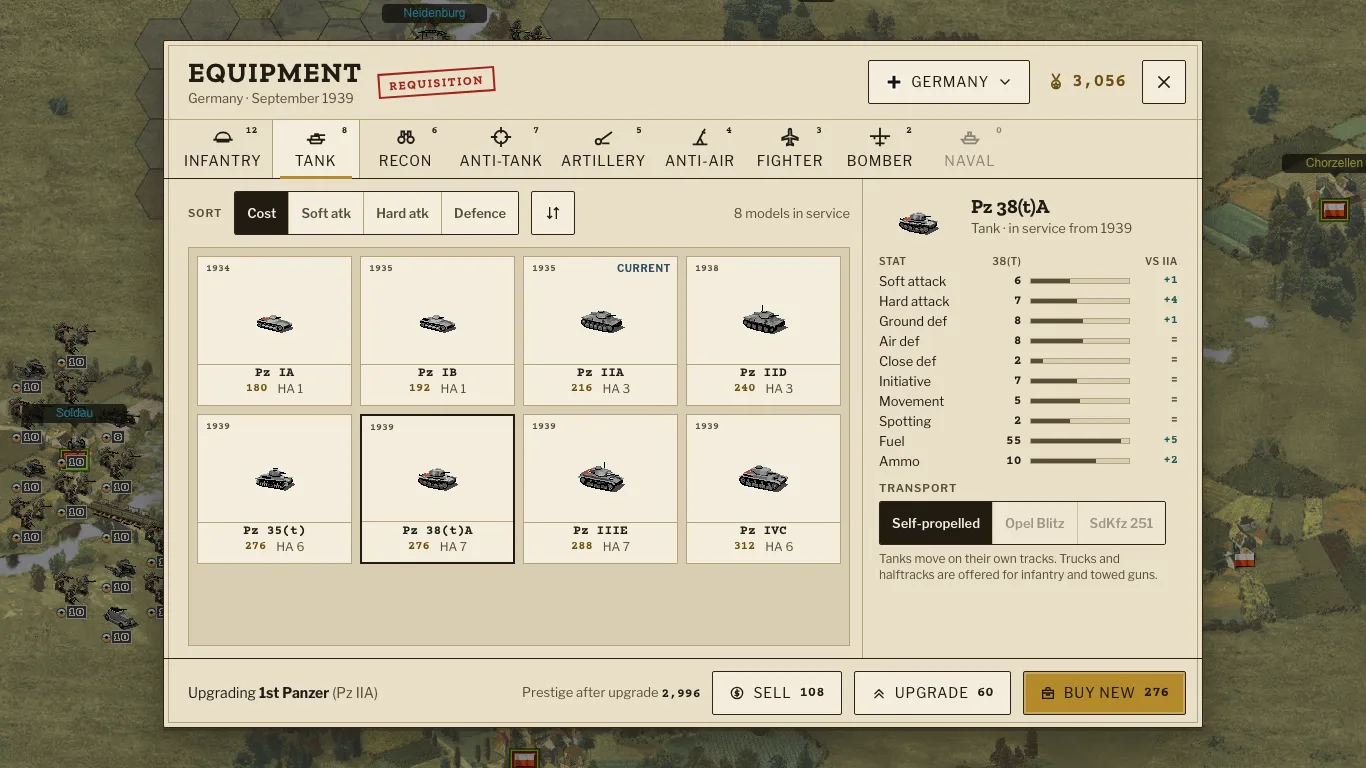
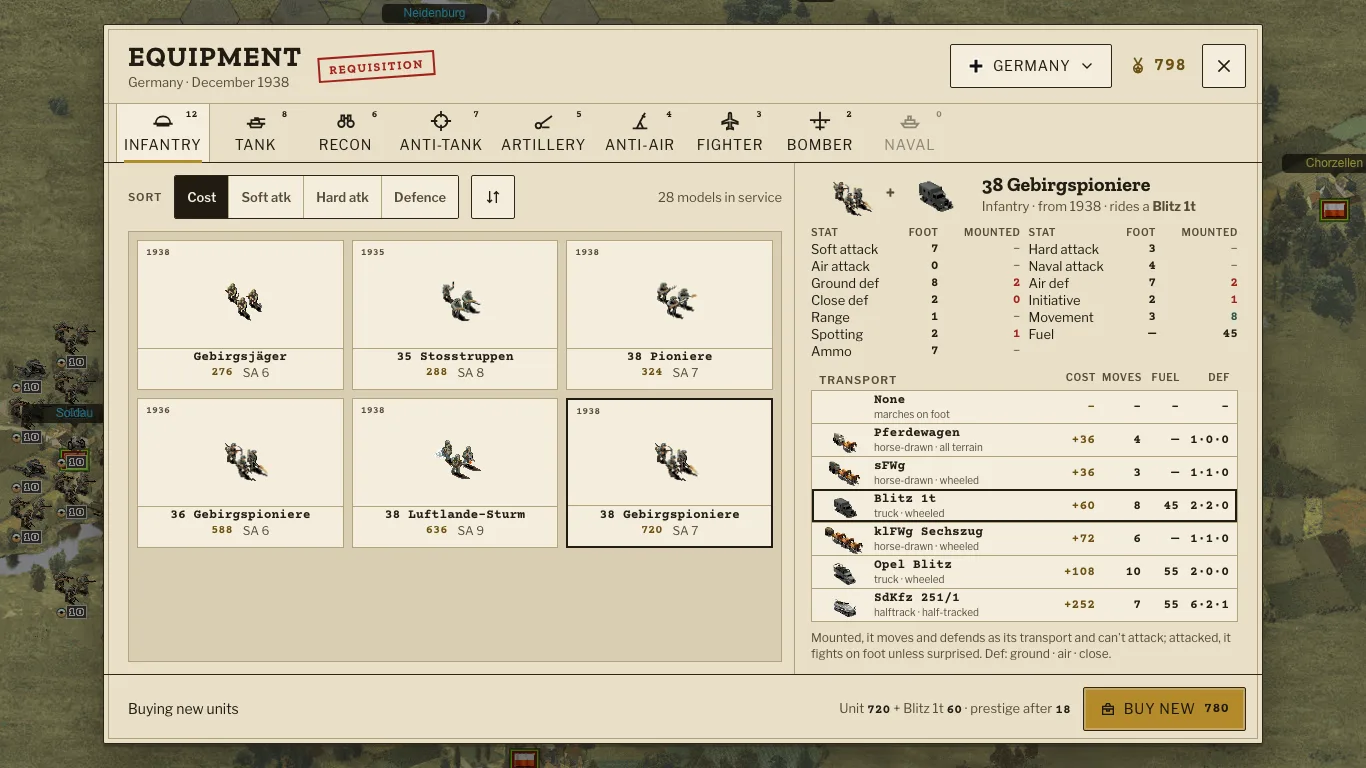
Show what each transport gives in the Equipment card
The equipment window offers a transport as a row of names: nothing says what it is, what it costs or what it changes, and the row scrolls sideways. The card now lists every transport with its sprite, kind, cost, moves, fuel and defence, shows the model's stats on foot and mounted side by side, puts the transport's sprite next to the unit's, says the mounting rule once and splits the price in the action bar. Design only: the card's status points at #513 for the build. No game code changed.

Changed region(s): [[0.0615, 0.0312, 0.9531, 1.0], [0.3997, 0.125, 0.4305, 0.1562]]

diff --git a/docs/ui/components/Equipment/preview.html b/docs/ui/components/Equipment/preview.html
@@ -1,26 +1,20 @@
-<!-- @dsCard group="Screens · In game" height=768 width=1366 subtitle="Equipment window (#equipment) at 1366×768: class tabs, sorted grid, comparison, transport, prestige" status="Ready" -->
+<!-- @dsCard group="Screens · In game" height=768 width=1366 subtitle="Equipment window (#equipment) at 1366×768: class tabs, sorted grid, the model on foot and mounted, transports with what each gives, prestige" status="Transport list not built (#513)" -->
 <link rel="stylesheet" href="https://fonts.googleapis.com/css2?family=Zilla+Slab:wght@500;700&family=Libre+Franklin:wght@400;600;700&family=Courier+Prime:wght@400;700&display=swap">
 
 <div class="pm pm-stage s1366">
-  
-  <div class="pm-map" style="background-image:url(assets/map-ciechanow.jpg);transform:translate(0px,0px) scale(1)" aria-hidden="true">
-    <svg class="hexes" width="1632" height="1040"></svg>
-    
-  </div>
+  <div class="pm-map" style="background-image:url(assets/map-ciechanow.jpg)" aria-hidden="true"></div>
   <div class="pm-scrim"></div>
-  
-  <section id="equipment" class="pm-window pm-eq" role="dialog" aria-label="Equipment" style="left:163px;top:40px;width:1040px;height:688px">
-    
+  <section id="equipment" class="pm-window pm-eq" role="dialog" aria-label="Equipment" style="left:103px;top:24px;width:1160px;height:720px">
     <div class="hd">
-      <div><h1 class="pm-display">Equipment</h1><div class="sub">Germany · September 1939</div></div>
+      <div><h1 class="pm-display">Equipment</h1><div class="sub">Germany · December 1938</div></div>
       <span class="pm-stamp">Requisition</span>
       <span class="grow"></span>
       <button id="eqSelCountryButton" class="pm-btn"><svg class="mark sm" aria-hidden="true"><use href="#pm-flag-de"/></svg>Germany<svg class="i sm" aria-hidden="true"><use href="#pm-chevron-down"/></svg></button>
-      <span id="currentPrestige" class="pm-prestige pm-data" style="font-size:18px"><svg class="i " aria-hidden="true"><use href="#pm-prestige"/></svg>3,056</span>
+      <span id="currentPrestige" class="pm-prestige pm-data" style="font-size:var(--type-data-lg-size)"><svg class="i " aria-hidden="true"><use href="#pm-prestige"/></svg>798</span>
       <button id="eqCloseBut" class="pm-btn icon" aria-label="Close"><svg class="i " aria-hidden="true"><use href="#pm-close"/></svg></button>
     </div>
     <nav id="eqSelClass" class="pm-tabs" role="tablist" style="">
-      <button class="pm-tab" role="tab" aria-selected="false"><svg class="i " aria-hidden="true"><use href="#pm-infantry"/></svg>Infantry<span class="n">12</span></button><button class="pm-tab is-on" role="tab" aria-selected="true"><svg class="i " aria-hidden="true"><use href="#pm-tank"/></svg>Tank<span class="n">8</span></button><button class="pm-tab" role="tab" aria-selected="false"><svg class="i " aria-hidden="true"><use href="#pm-recon"/></svg>Recon<span class="n">6</span></button><button class="pm-tab" role="tab" aria-selected="false"><svg class="i " aria-hidden="true"><use href="#pm-antitank"/></svg>Anti-tank<span class="n">7</span></button><button class="pm-tab" role="tab" aria-selected="false"><svg class="i " aria-hidden="true"><use href="#pm-artillery"/></svg>Artillery<span class="n">5</span></button><button class="pm-tab" role="tab" aria-selected="false"><svg class="i " aria-hidden="true"><use href="#pm-antiair"/></svg>Anti-air<span class="n">4</span></button><button class="pm-tab" role="tab" aria-selected="false"><svg class="i " aria-hidden="true"><use href="#pm-fighter"/></svg>Fighter<span class="n">3</span></button><button class="pm-tab" role="tab" aria-selected="false"><svg class="i " aria-hidden="true"><use href="#pm-bomber"/></svg>Bomber<span class="n">2</span></button><button class="pm-tab" role="tab" aria-selected="false" disabled><svg class="i " aria-hidden="true"><use href="#pm-naval"/></svg>Naval<span class="n">0</span></button>
+      <button class="pm-tab is-on" role="tab" aria-selected="true"><svg class="i " aria-hidden="true"><use href="#pm-infantry"/></svg>Infantry<span class="n">12</span></button><button class="pm-tab" role="tab" aria-selected="false"><svg class="i " aria-hidden="true"><use href="#pm-tank"/></svg>Tank<span class="n">8</span></button><button class="pm-tab" role="tab" aria-selected="false"><svg class="i " aria-hidden="true"><use href="#pm-recon"/></svg>Recon<span class="n">6</span></button><button class="pm-tab" role="tab" aria-selected="false"><svg class="i " aria-hidden="true"><use href="#pm-antitank"/></svg>Anti-tank<span class="n">7</span></button><button class="pm-tab" role="tab" aria-selected="false"><svg class="i " aria-hidden="true"><use href="#pm-artillery"/></svg>Artillery<span class="n">5</span></button><button class="pm-tab" role="tab" aria-selected="false"><svg class="i " aria-hidden="true"><use href="#pm-antiair"/></svg>Anti-air<span class="n">4</span></button><button class="pm-tab" role="tab" aria-selected="false"><svg class="i " aria-hidden="true"><use href="#pm-fighter"/></svg>Fighter<span class="n">3</span></button><button class="pm-tab" role="tab" aria-selected="false"><svg class="i " aria-hidden="true"><use href="#pm-bomber"/></svg>Bomber<span class="n">2</span></button><button class="pm-tab" role="tab" aria-selected="false" disabled><svg class="i " aria-hidden="true"><use href="#pm-naval"/></svg>Naval<span class="n">0</span></button>
     </nav>
     <div class="body">
       <div class="list">
@@ -29,33 +23,33 @@
           <div class="pm-seg" role="group" aria-label="Sort by"><button class="is-on">Cost</button><button>Soft atk</button><button>Hard atk</button><button>Defence</button></div>
           <button id="eqSortOrderBut" class="pm-btn icon" aria-label="Reverse order"><svg class="i sm" aria-hidden="true"><use href="#pm-sort"/></svg></button>
           <span class="grow"></span>
-          <span class="pm-muted" style="font-size:13px">8 models in service</span>
+          <span class="pm-muted" style="font-size:var(--type-small-size)">28 models in service</span>
         </div>
-        <div id="eqUnitList" class="pm-grid" style="grid-template-columns:repeat(4,1fr);grid-auto-rows:150px" role="listbox">
-          <div class="pm-card" role="option" aria-selected="false"><span class="yr">1934</span><span class="spr" style="background-image:url(assets/units-sheet.png);background-position:-0px 0"></span><span class="nm">Pz IA</span><span class="meta"><span class="c">180</span><span>HA 1</span></span></div><div class="pm-card" role="option" aria-selected="false"><span class="yr">1935</span><span class="spr" style="background-image:url(assets/units-sheet.png);background-position:-80px 0"></span><span class="nm">Pz IB</span><span class="meta"><span class="c">192</span><span>HA 1</span></span></div><div class="pm-card" role="option" aria-selected="false"><span class="yr">1935</span><span class="cur">Current</span><span class="spr" style="background-image:url(assets/units-sheet.png);background-position:-160px 0"></span><span class="nm">Pz IIA</span><span class="meta"><span class="c">216</span><span>HA 3</span></span></div><div class="pm-card" role="option" aria-selected="false"><span class="yr">1938</span><span class="spr" style="background-image:url(assets/units-sheet.png);background-position:-240px 0"></span><span class="nm">Pz IID</span><span class="meta"><span class="c">240</span><span>HA 3</span></span></div><div class="pm-card" role="option" aria-selected="false"><span class="yr">1939</span><span class="spr" style="background-image:url(assets/units-sheet.png);background-position:-320px 0"></span><span class="nm">Pz 35(t)</span><span class="meta"><span class="c">276</span><span>HA 6</span></span></div><div class="pm-card is-on" role="option" aria-selected="true"><span class="yr">1939</span><span class="spr" style="background-image:url(assets/units-sheet.png);background-position:-400px 0"></span><span class="nm">Pz 38(t)A</span><span class="meta"><span class="c">276</span><span>HA 7</span></span></div><div class="pm-card" role="option" aria-selected="false"><span class="yr">1939</span><span class="spr" style="background-image:url(assets/units-sheet.png);background-position:-480px 0"></span><span class="nm">Pz IIIE</span><span class="meta"><span class="c">288</span><span>HA 7</span></span></div><div class="pm-card" role="option" aria-selected="false"><span class="yr">1939</span><span class="spr" style="background-image:url(assets/units-sheet.png);background-position:-560px 0"></span><span class="nm">Pz IVC</span><span class="meta"><span class="c">312</span><span>HA 6</span></span></div>
-        </div></div>
-      
-      <aside class="detail" style="">
-        <div class="top"><span class="spr" style="background-image:url(assets/units-sheet.png);background-position:-400px 0"></span><div><h2 class="pm-title">Pz 38(t)A</h2><div class="pm-muted" style="font-size:13px">Tank · in service from 1939</div></div></div>
-        <div class="pm-cmp">
-          <span class="hdr">Stat</span><span class="hdr" style="text-align:right">38(t)</span><span class="hdr"></span><span class="hdr" style="text-align:right">vs IIA</span>
-          <span>Soft attack</span><span class="n">6</span><span class="bar"><b style="width:40%"></b></span><span class="d up">+1</span><span>Hard attack</span><span class="n">7</span><span class="bar"><b style="width:47%"></b></span><span class="d up">+4</span><span>Ground def</span><span class="n">8</span><span class="bar"><b style="width:53%"></b></span><span class="d up">+1</span><span>Air def</span><span class="n">8</span><span class="bar"><b style="width:53%"></b></span><span class="d ">=</span><span>Close def</span><span class="n">2</span><span class="bar"><b style="width:13%"></b></span><span class="d ">=</span><span>Initiative</span><span class="n">7</span><span class="bar"><b style="width:47%"></b></span><span class="d ">=</span><span>Movement</span><span class="n">5</span><span class="bar"><b style="width:50%"></b></span><span class="d ">=</span><span>Spotting</span><span class="n">2</span><span class="bar"><b style="width:40%"></b></span><span class="d ">=</span><span>Fuel</span><span class="n">55</span><span class="bar"><b style="width:92%"></b></span><span class="d up">+5</span><span>Ammo</span><span class="n">10</span><span class="bar"><b style="width:67%"></b></span><span class="d up">+2</span>
+        <div id="eqUnitList" class="pm-grid" style="grid-template-columns:repeat(3,1fr);grid-auto-rows:150px" role="listbox"><div class="pm-card" role="option" aria-selected="false"><span class="yr">1938</span><span class="spr fr" style="background-image:url(../../game/resources/units/images/zd08.png)"></span><span class="nm">Gebirgsjäger</span><span class="meta"><span class="c">276</span><span>SA 6</span></span></div><div class="pm-card" role="option" aria-selected="false"><span class="yr">1935</span><span class="spr fr" style="background-image:url(../../game/resources/units/images/jkh29.png)"></span><span class="nm">35 Stosstruppen</span><span class="meta"><span class="c">288</span><span>SA 8</span></span></div><div class="pm-card" role="option" aria-selected="false"><span class="yr">1938</span><span class="spr fr" style="background-image:url(../../game/resources/units/images/jki22.png)"></span><span class="nm">38 Pioniere</span><span class="meta"><span class="c">324</span><span>SA 7</span></span></div><div class="pm-card" role="option" aria-selected="false"><span class="yr">1936</span><span class="spr fr" style="background-image:url(../../game/resources/units/images/zy05.png)"></span><span class="nm">36 Gebirgspioniere</span><span class="meta"><span class="c">588</span><span>SA 6</span></span></div><div class="pm-card" role="option" aria-selected="false"><span class="yr">1938</span><span class="spr fr" style="background-image:url(../../game/resources/units/images/er44.png)"></span><span class="nm">38 Luftlande-Sturm</span><span class="meta"><span class="c">636</span><span>SA 9</span></span></div><div class="pm-card is-on" role="option" aria-selected="true"><span class="yr">1938</span><span class="spr fr" style="background-image:url(../../game/resources/units/images/zy05.png)"></span><span class="nm">38 Gebirgspioniere</span><span class="meta"><span class="c">720</span><span>SA 7</span></span></div></div>
+      </div>
+      <aside class="detail">
+        <div class="top"><div class="duo"><span class="spr fr" style="background-image:url(../../game/resources/units/images/zy05.png)"></span><span class="plus" aria-hidden="true">+</span><span class="spr fr" style="background-image:url(../../game/resources/units/images/zyc26.png)"></span></div><div><h2 class="pm-title">38 Gebirgspioniere</h2><div class="pm-muted" style="font-size:var(--type-small-size)">Infantry · from 1938 · rides a <b>Blitz 1t</b></div></div></div>
+        <div class="pm-mount"><span class="hdr">Stat</span><span class="hdr">Foot</span><span class="hdr">Mounted</span><span class="hdr">Stat</span><span class="hdr">Foot</span><span class="hdr">Mounted</span><span>Soft attack</span><span class="n">7</span><span class="n m off">–</span><span>Hard attack</span><span class="n">3</span><span class="n m off">–</span><span>Air attack</span><span class="n">0</span><span class="n m off">–</span><span>Naval attack</span><span class="n">4</span><span class="n m off">–</span><span>Ground def</span><span class="n">8</span><span class="n m dn">2</span><span>Air def</span><span class="n">7</span><span class="n m dn">2</span><span>Close def</span><span class="n">2</span><span class="n m dn">0</span><span>Initiative</span><span class="n">2</span><span class="n m dn">1</span><span>Range</span><span class="n">1</span><span class="n m off">–</span><span>Movement</span><span class="n">3</span><span class="n m up">8</span><span>Spotting</span><span class="n">2</span><span class="n m dn">1</span><span>Fuel</span><span class="n">—</span><span class="n m">45</span><span>Ammo</span><span class="n">7</span><span class="n m off">–</span></div>
+        <div id="eqTransportList">
+          <div class="trh"><span class="pm-label">Transport</span><span>Cost</span><span>Moves</span><span>Fuel</span><span>Def</span></div>
+          <div class="trl" role="radiogroup" aria-label="Transport">
+          <div class="tr" role="radio" aria-checked="false"><span class="ts"></span><span class="nm"><b>None</b><span>marches on foot</span></span><span class="v c">–</span><span class="v">–</span><span class="v">–</span><span class="v">–</span></div>
+          <div class="tr" role="radio" aria-checked="false"><span class="ts fr" style="background-image:url(../../game/resources/units/images/pat16.png)"></span><span class="nm"><b>Pferdewagen</b><span>horse-drawn · all terrain</span></span><span class="v c">+36</span><span class="v">4</span><span class="v">—</span><span class="v">1·0·0</span></div>
+          <div class="tr" role="radio" aria-checked="false"><span class="ts fr" style="background-image:url(../../game/resources/units/images/zyb34.png)"></span><span class="nm"><b>sFWg</b><span>horse-drawn · wheeled</span></span><span class="v c">+36</span><span class="v">3</span><span class="v">—</span><span class="v">1·1·0</span></div>
+          <div class="tr is-on" role="radio" aria-checked="true"><span class="ts fr" style="background-image:url(../../game/resources/units/images/zyc26.png)"></span><span class="nm"><b>Blitz 1t</b><span>truck · wheeled</span></span><span class="v c">+60</span><span class="v">8</span><span class="v">45</span><span class="v">2·2·0</span></div>
+          <div class="tr" role="radio" aria-checked="false"><span class="ts fr" style="background-image:url(../../game/resources/units/images/drg75.png)"></span><span class="nm"><b>klFWg Sechszug</b><span>horse-drawn · wheeled</span></span><span class="v c">+72</span><span class="v">6</span><span class="v">—</span><span class="v">1·1·0</span></div>
+          <div class="tr" role="radio" aria-checked="false"><span class="ts fr" style="background-image:url(../../game/resources/units/images/jk469.png)"></span><span class="nm"><b>Opel Blitz</b><span>truck · wheeled</span></span><span class="v c">+108</span><span class="v">10</span><span class="v">55</span><span class="v">2·0·0</span></div>
+          <div class="tr" role="radio" aria-checked="false"><span class="ts fr" style="background-image:url(../../game/resources/units/images/pa171.png)"></span><span class="nm"><b>SdKfz 251/1</b><span>halftrack · half-tracked</span></span><span class="v c">+252</span><span class="v">7</span><span class="v">55</span><span class="v">6·2·1</span></div>
+          </div>
         </div>
-        <div id="eqTransportList" style="display:grid;gap:6px">
-          <span class="pm-label">Transport</span>
-          <div class="pm-seg"><button class="is-on">Self-propelled</button><button disabled>Opel Blitz</button><button disabled>SdKfz 251</button></div>
-          <span class="pm-muted" style="font-size:12px;line-height:16px">Tanks move on their own tracks. Trucks and halftracks are offered for infantry and towed guns.</span>
-        </div>
+        <p class="rule">Mounted, it moves and defends as its transport and can't attack; attacked, it fights on foot unless surprised. Def: ground · air · close.</p>
       </aside>
     </div>
-    
     <div id="eqActionsContainer" class="ft">
-      <span>Upgrading <b>1st Panzer</b> <span class="pm-muted">(Pz IIA)</span></span>
+      <span>Buying new units</span>
       <span class="grow"></span>
-      <span class="after">Prestige after upgrade <b>2,996</b></span>
-      <button id="eqSellBut" class="pm-btn"><svg class="i sm" aria-hidden="true"><use href="#pm-coin"/></svg>Sell <span class="cost">108</span></button>
-      <button id="eqUpgradeBut" class="pm-btn"><svg class="i sm" aria-hidden="true"><use href="#pm-upgrade"/></svg>Upgrade <span class="cost">60</span></button>
-      <button id="eqNewBut" class="pm-btn primary"><svg class="i sm" aria-hidden="true"><use href="#pm-depot"/></svg>Buy new <span class="cost">276</span></button>
+      <span class="after">Unit <b>720</b> + Blitz 1t <b>60</b> · prestige after <b>18</b></span>
+      <button id="eqNewBut" class="pm-btn primary"><svg class="i sm" aria-hidden="true"><use href="#pm-depot"/></svg>Buy new <span class="cost">780</span></button>
     </div>
   </section>
 </div>

diff --git a/docs/ui/components/bundle.css b/docs/ui/components/bundle.css
@@ -114,6 +114,34 @@
 .pm-cmp .bar b { display: block; height: 100%; background: var(--ink-muted); }
 .pm-cmp .d { font-family: var(--font-mono); font-weight: 700; font-size: var(--type-note-size); text-align: right; color: var(--ink-muted); }
 .pm-cmp .d.up { color: var(--ok); } .pm-cmp .d.dn { color: var(--critical); }
+/* the transport: the model on foot and mounted side by side, and every transport with what it gives, so the
+   choice reads without opening anything. A wider detail column; the model grid takes three cards a row */
+.pm-eq .body:has(.pm-mount) { grid-template-columns: 1fr 468px; }
+.pm-eq .detail:has(.pm-mount) { gap: var(--space-2); padding-top: var(--space-2); overflow: hidden; }
+.pm-eq .detail .top:has(.duo) { grid-template-columns: auto 1fr; }
+.pm-eq .fr { background-size: 900% 100%; background-position-x: 25%; background-repeat: no-repeat; }
+.pm-eq .duo { display: flex; align-items: center; gap: 2px; }
+.pm-eq .duo .spr { width: 72px; height: 45px; }
+.pm-eq .duo .plus { font: 700 var(--type-data-lg-size)/1 var(--font-mono); color: var(--ink-muted); }
+.pm-mount { display: grid; grid-template-columns: 1fr 44px 74px 1fr 44px 74px; gap: 1px 8px; font-size: var(--type-small-size); line-height: 16px; }
+.pm-mount .hdr, .pm-eq .trh { font-size: var(--type-micro-size); letter-spacing: .06em; text-transform: uppercase; font-weight: 600; color: var(--ink-muted); text-align: right; }
+.pm-mount .hdr:nth-child(3n+1) { text-align: left; }
+.pm-mount .n { font-family: var(--font-mono); font-weight: 700; text-align: right; }
+.pm-mount .m.up { color: var(--ok); } .pm-mount .m.dn { color: var(--critical); } .pm-mount .m.off { color: var(--ink-muted); font-weight: 400; }
+.pm-eq .trh, .pm-eq .tr { display: grid; grid-template-columns: 48px 1fr 38px 40px 32px 44px; gap: 6px; align-items: center; }
+.pm-eq .trh { padding: 0 8px 3px; align-items: end; }
+.pm-eq .trh .pm-label { grid-column: span 2; text-align: left; }
+.pm-eq .trl { display: grid; border: 1px solid var(--line); background: var(--panel-sunken); }
+.pm-eq .tr { padding: 1px 8px; border-top: 1px solid var(--line); background: var(--panel-raised); cursor: pointer; }
+.pm-eq .tr:first-child { border-top: 0; }
+.pm-eq .tr.is-on { outline: 2px solid var(--ink); outline-offset: -2px; }
+.pm-eq .tr .ts { width: 48px; height: 30px; }
+.pm-eq .tr .nm { display: grid; min-width: 0; }
+.pm-eq .tr .nm b { font: 700 var(--type-small-size)/15px var(--font-mono); white-space: nowrap; overflow: hidden; text-overflow: ellipsis; }
+.pm-eq .tr .nm span { font-size: var(--type-micro-size); line-height: 13px; color: var(--ink-muted); }
+.pm-eq .tr .v { font: 700 var(--type-small-size)/16px var(--font-mono); text-align: right; }
+.pm-eq .tr .v.c { color: var(--accent-ink); }
+.pm-eq .rule { margin: 0; font-size: var(--type-note-size); line-height: 16px; color: var(--ink-muted); }
 .pm-eq .after { font-size: var(--type-small-size); color: var(--ink-muted); }
 .pm-eq .after b { font-family: var(--font-mono); color: var(--ink); }
 

diff --git a/docs/ui/components/Equipment/README.md b/docs/ui/components/Equipment/README.md
@@ -1,8 +1,13 @@
 **In the port (#441):** the class tabs carry no model counts and none is disabled, the toolbar no "N models in service", the detail the picked model's stats with their bars but no difference to the unit's own (the old window showed an entry's stats alone), and the action bar no "prestige after". As the old window had none of them.
 
-Buy new units and upgrade existing ones. From the top: the title, the country selector and the prestige balance; class tabs with counts; the sort control and the unit grid; the detail column comparing the picked model with the unit being upgraded; the transport selector; and the action bar with the prestige left after the action.
+**To build (#513):** the transport list and the mounted column below. The game shows the transports as a row of names.
 
-- **Grid cards.** Unit cards are index cards with a ruled line above the name. The selected card has a 2px `ink` border, and the model currently in use is tagged "Current".
-- **Comparison.** Deltas are typed: `+4` in `ok`, a negative value in `critical`, and `=` when equal.
-- **Actions.** Only Buy new is primary. Sell and Upgrade show their cost in Courier Prime.
+Buy new units and upgrade existing ones. From the top: the title, the country selector and the prestige balance; class tabs with counts; the sort control and the unit grid; the detail column with the picked model on foot and mounted; the transports, each with what it gives; and the action bar with the price split and the prestige left after the action.
+
+- **Grid cards.** Unit cards are index cards with a ruled line above the name. The selected card has a 2px `ink` border, and the model currently in use is tagged "Current". Three cards a row, so the detail column has room.
+- **Detail.** The model's sprite, and its transport's after a "+", above the name; under it "rides a Blitz 1t", or nothing on foot.
+- **On foot and mounted.** Mounted, a unit plays on its transport's entry: its moves, ground, fuel, defences, initiative and spotting, and it can't attack (`unitData`, `movesLeft` in src/core/world.ts). So the stats are two columns, Foot and Mounted, two stats a line. A mounted value better than on foot is in `ok`, a worse one in `critical`; the attacks, range and ammo are "–" mounted. With no transport picked, the Mounted column is empty.
+- **Transports.** Every transport that carries the model, in service and of the country, sorted as the models are, with None first: a radio list, never scrolled sideways. A row is the transport's sprite, its name and its kind and ground (horse-drawn · all terrain, truck · wheeled, halftrack · half-tracked), then its cost (+60), moves, fuel and defence as ground · air · close. A fuel of 0 is "—": it uses none (`usesFuel` in src/core/units.ts). The picked row has a 2px `ink` outline.
+- **The rule, once.** One line under the list: mounted, it moves and defends as its transport and can't attack; attacked, it fights on foot unless surprised (src/core/combat.ts).
+- **Actions.** Only Buy new is primary. Its price is split before it: unit + transport, and the prestige after. Sell and Upgrade show their cost in Courier Prime.
 - Keep `#equipment`, `#eqSelClass`, `#eqUnitList`, `#eqTransportList`, `#eqActionsContainer`, `#eqSelCountryButton`, `#currentPrestige`, `#eqCloseBut`, `#eqSellBut`, `#eqUpgradeBut`, `#eqNewBut` and `#eqSortOrderBut`.

diff --git a/docs/ui/README.md b/docs/ui/README.md
@@ -60,7 +60,7 @@ Status says whether a card can be built as it is (PLAN.md): Ready, or what has t
 | [CombatOdds](components/CombatOdds/README.md)<br>[render](renders/CombatOdds.webp) | Combat odds v2: overrun, rugged defense, a costly close combat and a safe bombardment, with the reasons and what happens next | Ready |
 | [CombatResults](components/CombatResults/README.md)<br>[render](renders/CombatResults.webp) | After the combat: losses over each hex, one stamp for what happened, and the same line in the status bar | Ready |
 | [Deployment](components/Deployment/README.md)<br>[render](renders/Deployment.webp) | Deployment at 1920×1080: the zone, units placed, the next one shown on the hovered hex, and the reserve tray | Ready |
-| [Equipment](components/Equipment/README.md)<br>[render](renders/Equipment.webp) | Equipment window (#equipment) at 1366×768: class tabs, sorted grid, comparison, transport, prestige | Ready |
+| [Equipment](components/Equipment/README.md)<br>[render](renders/Equipment.webp) | Equipment window (#equipment) at 1366×768: class tabs, sorted grid, the model on foot and mounted, transports with what each gives, prestige | Transport list not built (#513) |
 | [GameMenu](components/GameMenu/README.md)<br>[render](renders/GameMenu.webp) | Game menu (#menu): the game's own buttons, open and folded, the labelled rail for touch, and every keyboard shortcut | Ready |
 | [HudDesktop](components/HudDesktop/README.md)<br>[render](renders/HudDesktop.webp) | The full HUD at 1920×1080 over the Ciechanów map: unit selected, context menu, odds preview | Ready |
 | [HudLaptop](components/HudLaptop/README.md)<br>[render](renders/HudLaptop.webp) | The full HUD at 1366×768: the same elements, proving the map stays visible on a small laptop | Ready |
